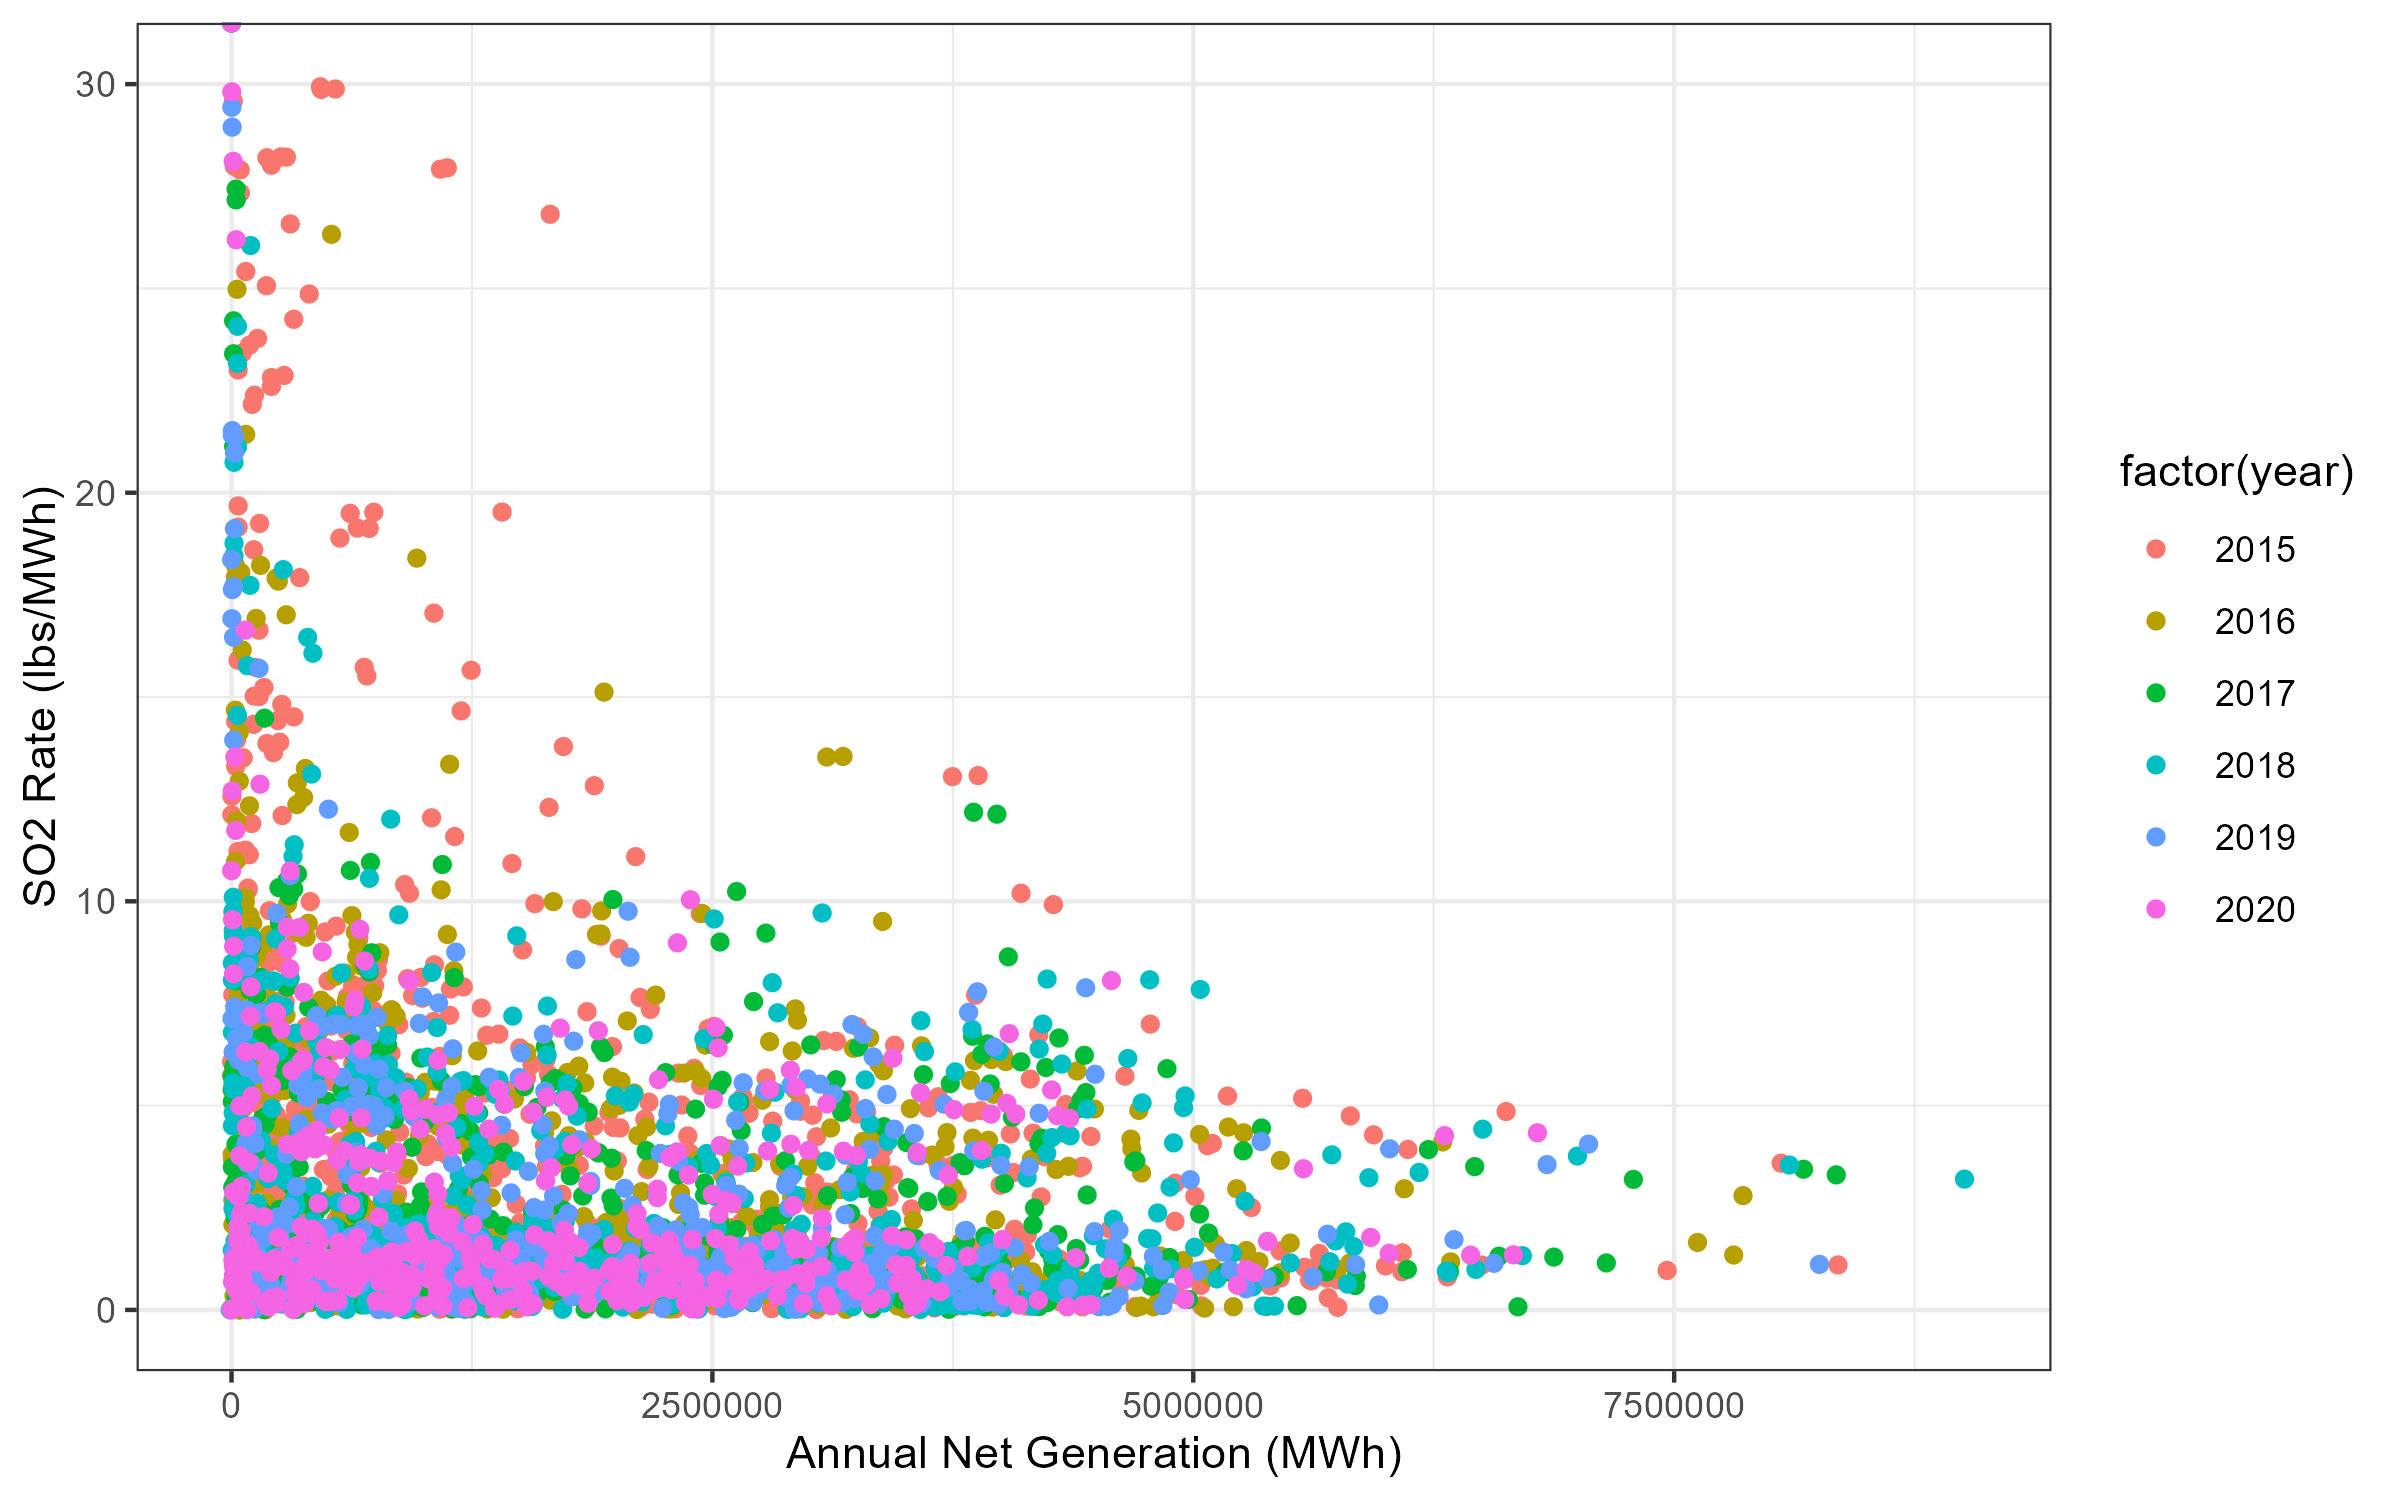
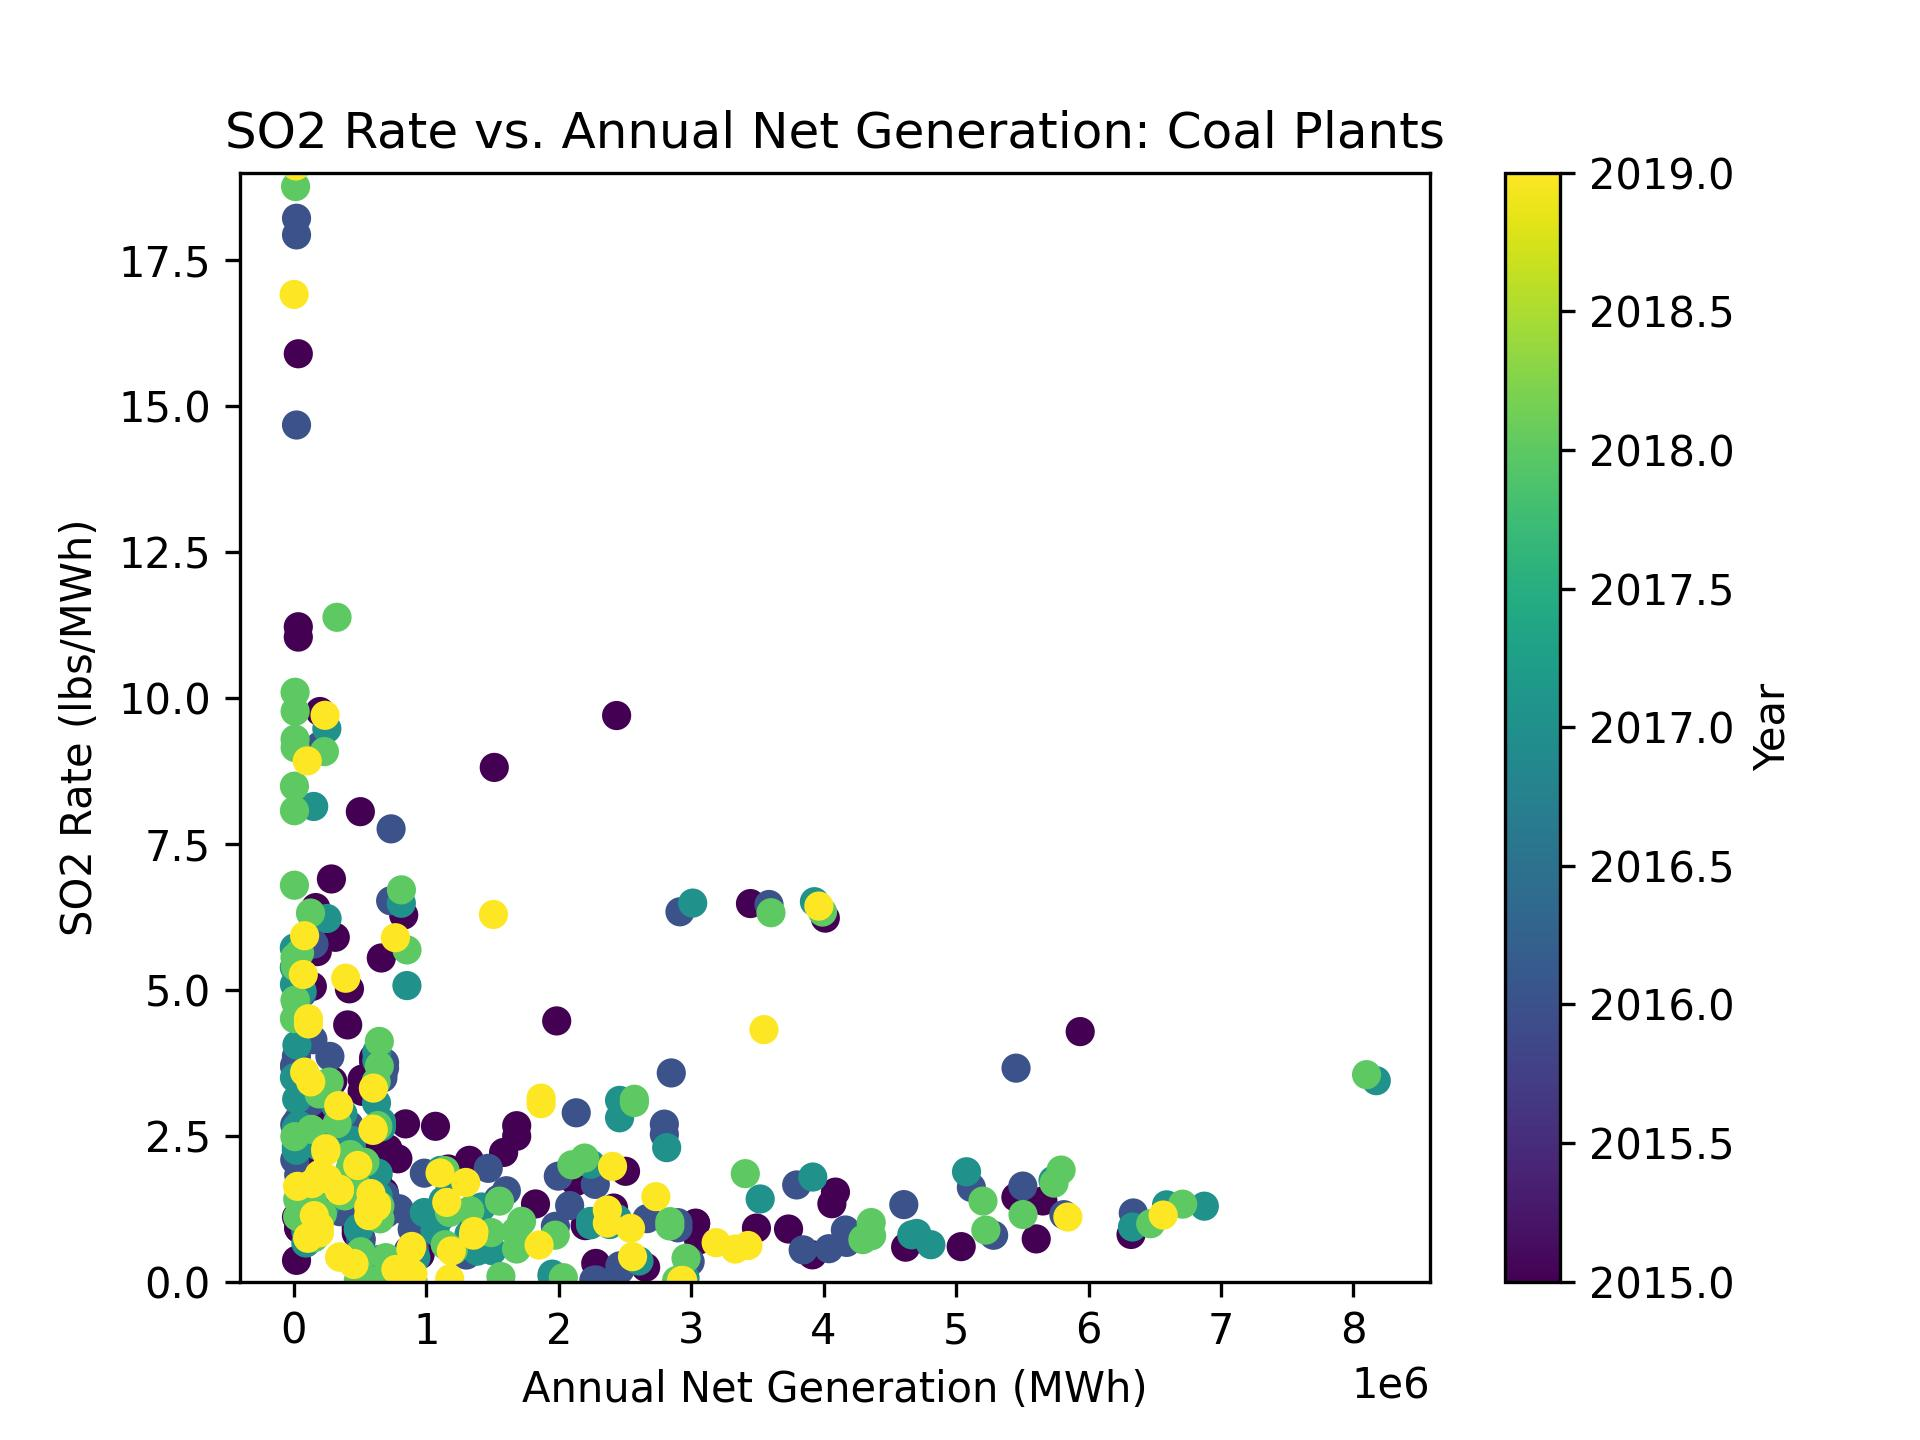
calculate generator emissions rates

diff --git a/Join_EIA_EPA.py b/Join_EIA_EPA.py
@@ -1,0 +1,172 @@
+import pandas as pd
+import matplotlib.pyplot as plt
+import os
+
+####################
+# Read in Data #####
+####################
+
+crosswalk = pd.read_csv("Data/epa_eia_crosswalk.csv")
+emissions = pd.read_csv("Data/CAMD/facilities_emissions.csv")
+
+# PM25
+pm25 = pd.DataFrame()
+for y in range(2018, 2021):
+    sheetname = f"{y} PM Unit-level Data"
+    pm25_temp = pd.read_excel("Data/eGRID2020 DRAFT PM Emissions.xlsx", sheet_name=sheetname, skiprows=1)
+    pm25 = pd.concat([pm25, pm25_temp])
+
+pm25['UNITID'] = pm25['UNITID'].astype(str)
+pm25 = pm25.groupby(['YEAR', 'ORISPL', 'UNITID']).agg({'PM25AN': 'sum'}).reset_index()
+pm25.columns = ['YEAR', 'ORISPL', 'UNITID', 'pm25']
+
+
+# EIA 923 For Annual Generation
+eia923 = pd.DataFrame()
+files923 = [f for f in os.listdir("Data/eia923/") if os.path.isfile(os.path.join("Data/eia923/", f)) and "2_3_4" in f]
+for j in files923:
+    tempdat = pd.read_excel("Data/eia923/"+j, sheet_name='Page 4 Generator Data', skiprows=5)
+    eia923 = pd.concat([eia923, tempdat])
+    print(j)
+
+eia923 = eia923[['Plant Id', 'Generator Id', 'Plant Name', 'Plant State', 'Net Generation\nYear To Date', 'YEAR']]
+eia923.columns = ['EIA_PLANT_ID', 'EIA_GENERATOR_ID', 'EIA_PLANT_NAME', 'EIA_STATE', 'NET_GEN', 'YEAR']
+
+# EIA 860 for Generator Info
+eia860 = pd.DataFrame()
+files860 = [f for f in os.listdir("Data/eia860/") if os.path.isfile(os.path.join("Data/eia860/", f)) and "Generator" in f]
+for j in files860:
+    tempdat = pd.read_excel("Data/eia860/"+j, skiprows=1)
+    tempdat['year'] = j[15:19]
+    eia860 = pd.concat([eia860, tempdat])
+    print(j)
+
+eia860 = eia860[['Plant Code', 'Generator ID', 'Nameplate Capacity (MW)', 'Planned Retirement Year', 'Planned Retirement Month', 'Synchronized to Transmission Grid', 'year']]
+eia860.columns = ['EIA_PLANT_ID', 'EIA_GENERATOR_ID', 'Capacity', 'RetirementYear', 'RetirementMonth', 'SynchronizedToGrid', 'YEAR']
+eia860['YEAR'] = eia860['YEAR'].astype('int')
+eia923['YEAR'] = eia923['YEAR'].astype('int')
+
+# Join CAMD with Crosswalk
+eia_joined = pd.merge(eia923, eia860, on=['EIA_PLANT_ID', 'EIA_GENERATOR_ID', 'YEAR'], how='left')
+# Additional code may be needed to handle the join validation as in R
+
+# Merge crosswalk into eia
+crosswalk = crosswalk[['CAMD_PLANT_ID', 'CAMD_UNIT_ID', 'CAMD_GENERATOR_ID', 'EIA_PLANT_ID', 'EIA_GENERATOR_ID', 'EIA_UNIT_TYPE']]
+eia_joined = pd.merge(eia_joined, crosswalk, on=['EIA_PLANT_ID', 'EIA_GENERATOR_ID'], how='left')
+# Additional code may be needed to handle the join validation as in R
+
+eia_collapsed = eia_joined.groupby(['CAMD_PLANT_ID', 'CAMD_UNIT_ID', 'YEAR']).agg({'NET_GEN': 'sum', 'Capacity': 'sum'}).reset_index()
+
+# Join CAMD with PM25
+emissions = pd.merge(emissions, pm25, left_on=['facilityId', 'unitId', 'year'], right_on=['ORISPL', 'UNITID', 'YEAR'], how='left')
+
+# Join with CAMD
+camd_eia_data = pd.merge(emissions, eia_collapsed, left_on=['facilityId', 'unitId', 'year'], right_on=['CAMD_PLANT_ID', 'CAMD_UNIT_ID', 'YEAR'], how='left')
+
+### Calculate tons
+# Calculate values based on existing columns
+camd_eia_data['nox_lbs'] = camd_eia_data['noxMass'] * 2000
+camd_eia_data['NOX_RATE'] = camd_eia_data['nox_lbs'] / camd_eia_data['NET_GEN']
+camd_eia_data['so2_lbs'] = camd_eia_data['so2Mass'] * 2000
+camd_eia_data['so2_rate'] = camd_eia_data['so2_lbs'] / camd_eia_data['NET_GEN']
+camd_eia_data['pm25_lbs'] = camd_eia_data['pm25'] * 2000
+camd_eia_data['pm25_rate'] = camd_eia_data['pm25_lbs'] / camd_eia_data['NET_GEN']
+
+#write to csv
+camd_eia_data.to_csv('Data/generator_emissions_rates.csv', index=False)
+
+# Examine Coal
+camd_eia_data_coal = camd_eia_data[camd_eia_data['primaryFuelInfo'].str.contains("Coal") & (camd_eia_data['facilityId'] < 880000)]
+
+import matplotlib.pyplot as plt
+
+# Plotting NOx Rate vs. Annual Net Generation for Coal
+plt.scatter(camd_eia_data_coal['NET_GEN'], camd_eia_data_coal['NOX_RATE'], c=camd_eia_data_coal['year'])
+plt.ylim(0, 19)
+plt.xlabel('Annual Net Generation (MWh)')
+plt.ylabel('NOx Rate (lbs/MWh)')
+plt.colorbar(label='Year')
+plt.title('NOx Rate vs. Annual Net Generation: Coal Plants')
+plt.savefig("MIP_AirPollution/Figures/NoxRate_AnnualGen_coal.jpg", dpi=300)
+plt.show()
+
+# Plotting SO2 Rate vs. Annual Net Generation for Coal
+plt.scatter(camd_eia_data_coal['NET_GEN'], camd_eia_data_coal['so2_rate'], c=camd_eia_data_coal['year'])
+plt.ylim(0, 19)
+plt.xlabel('Annual Net Generation (MWh)')
+plt.ylabel('SO2 Rate (lbs/MWh)')
+plt.colorbar(label='Year')
+plt.title('SO2 Rate vs. Annual Net Generation: Coal Plants')
+plt.savefig("MIP_AirPollution/Figures/SO2Rate_AnnualGen_coal.jpg", dpi=300)
+plt.show()
+
+# Plotting PM2.5 Rate vs. Annual Net Generation for Coal
+plt.scatter(camd_eia_data_coal['NET_GEN'], camd_eia_data_coal['pm25_rate'], c=camd_eia_data_coal['year'])
+plt.ylim(0, 19)
+plt.xlabel('Annual Net Generation (MWh)')
+plt.ylabel('PM2.5 Rate (lbs/MWh)')
+plt.colorbar(label='Year')
+plt.title('PM2.5 Rate vs. Annual Net Generation: Coal Plants')
+plt.savefig("MIP_AirPollution/Figures/PM25Rate_AnnualGen_coal.jpg", dpi=300)
+plt.show()
+
+# Plotting NOx Rate vs. Annual Net Generation for Coal
+plt.scatter(camd_eia_data_coal['Capacity'], camd_eia_data_coal['NOX_RATE'], c=camd_eia_data_coal['year'])
+plt.ylim(0, 19)
+plt.xlabel('Capacity(MW)')
+plt.ylabel('NOx Rate (lbs/MWh)')
+plt.colorbar(label='Year')
+plt.title('NOx Rate vs. Capacity: Coal Plants')
+plt.savefig("MIP_AirPollution/Figures/NoxRate_Capacity_coal.jpg", dpi=300)
+plt.show()
+
+# Plotting SO2 Rate vs. Annual Net Generation for Coal
+plt.scatter(camd_eia_data_coal['Capacity'], camd_eia_data_coal['so2_rate'], c=camd_eia_data_coal['year'])
+plt.ylim(0, 19)
+plt.xlabel('Capacity (MW)')
+plt.ylabel('SO2 Rate (lbs/MWh)')
+plt.colorbar(label='Year')
+plt.title('SO2 Rate vs. Capacity: Coal Plants')
+plt.savefig("MIP_AirPollution/Figures/SO2Rate_Capacity_coal.jpg", dpi=300)
+plt.show()
+
+# Plotting PM2.5 Rate vs. Annual Net Generation for Coal
+plt.scatter(camd_eia_data_coal['Capacity'], camd_eia_data_coal['pm25_rate'], c=camd_eia_data_coal['year'])
+plt.ylim(0, 19)
+plt.xlabel('Capacity (MW)')
+plt.ylabel('PM2.5 Rate (lbs/MWh)')
+plt.colorbar(label='Year')
+plt.title('PM2.5 Rate vs. Capacity: Coal Plants')
+plt.savefig("MIP_AirPollution/Figures/PM25Rate_Capacity_coal.jpg", dpi=300)
+plt.show()
+
+#Produce timeseries
+yearly_coal_emissions = camd_eia_data_coal.groupby('year').apply(lambda x: pd.Series({
+    'NoxRate_weighted': (x['NOX_RATE'] * x['NET_GEN']).sum(),
+    'So2Rate_weighted': (x['so2_rate'] * x['NET_GEN']).sum(),
+    'NET_GEN': x['NET_GEN'].sum()
+})).reset_index()
+
+yearly_coal_emissions['NoxRate_weighted'] /= yearly_coal_emissions['NET_GEN']
+yearly_coal_emissions['So2Rate_weighted'] /= yearly_coal_emissions['NET_GEN']
+
+#Plot Nox Emissions Rate over time
+plt.figure(figsize=(8, 5))
+plt.plot(yearly_coal_emissions['year'], yearly_coal_emissions['NoxRate_weighted'])
+plt.xlabel('Year')
+plt.ylabel('Generation-weighted average Nox Rate (lbs/MWh)')
+plt.title('NOx Emissions Rate: Coal Plants')
+plt.grid(True)
+plt.savefig("MIP_AirPollution/Figures/NoxRate_timeseries_coal.jpg", dpi=300)
+plt.show()
+
+# Plotting SO2 Emissions Rate over time for Coal Plants
+plt.figure(figsize=(8, 5))
+plt.plot(yearly_coal_emissions['year'], yearly_coal_emissions['So2Rate_weighted'])
+plt.xlabel('Year')
+plt.ylabel('Generation-weighted average SO2 Rate (lbs/MWh)')
+plt.title('SO2 Emissions Rate: Coal Plants')
+plt.grid(True)
+plt.savefig("MIP_AirPollution/Figures/So2Rate_timeseries_coal.jpg", dpi=300)
+plt.show()
+

diff --git a/Get_CAMD.py b/Get_CAMD.py
@@ -42,7 +42,7 @@ for year in range(2015, 2021):
 
 # Convert to DataFrame and save as CSV
 facilities_attributes_df = pd.DataFrame(facilities_attributes_data)
-facilities_attributes_df.to_csv(data_directory+"facilities_attributes.csv", index=False)
+facilities_attributes_df.to_csv(data_directory+"CAMD/facilities_attributes.csv", index=False)
 
 # Fetch facilities emissions data
 facilities_emissions_data = []
@@ -52,4 +52,4 @@ for year in range(2015, 2021):
 
 # Convert to DataFrame and save as CSV
 facilities_emissions_df = pd.DataFrame(facilities_emissions_data)
-facilities_emissions_df.to_csv(data_directory+"facilities_emissions.csv", index=False)
+facilities_emissions_df.to_csv(data_directory+"CAMD/facilities_emissions.csv", index=False)
